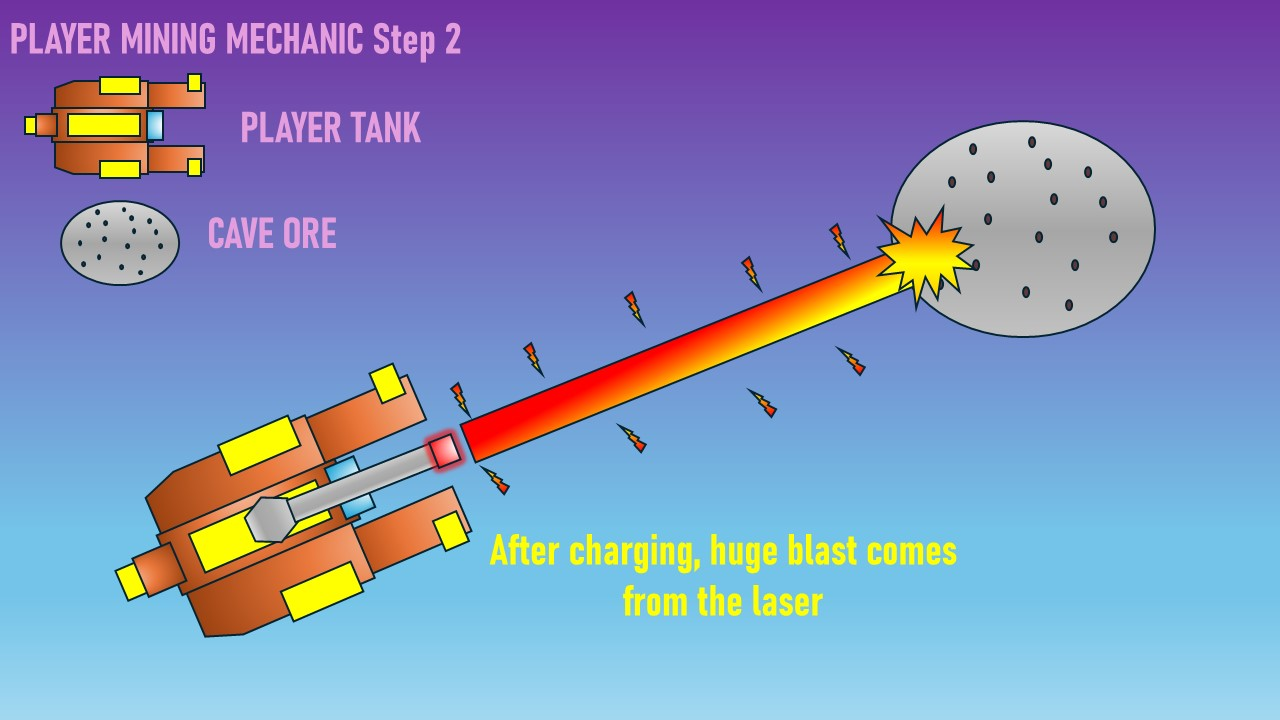
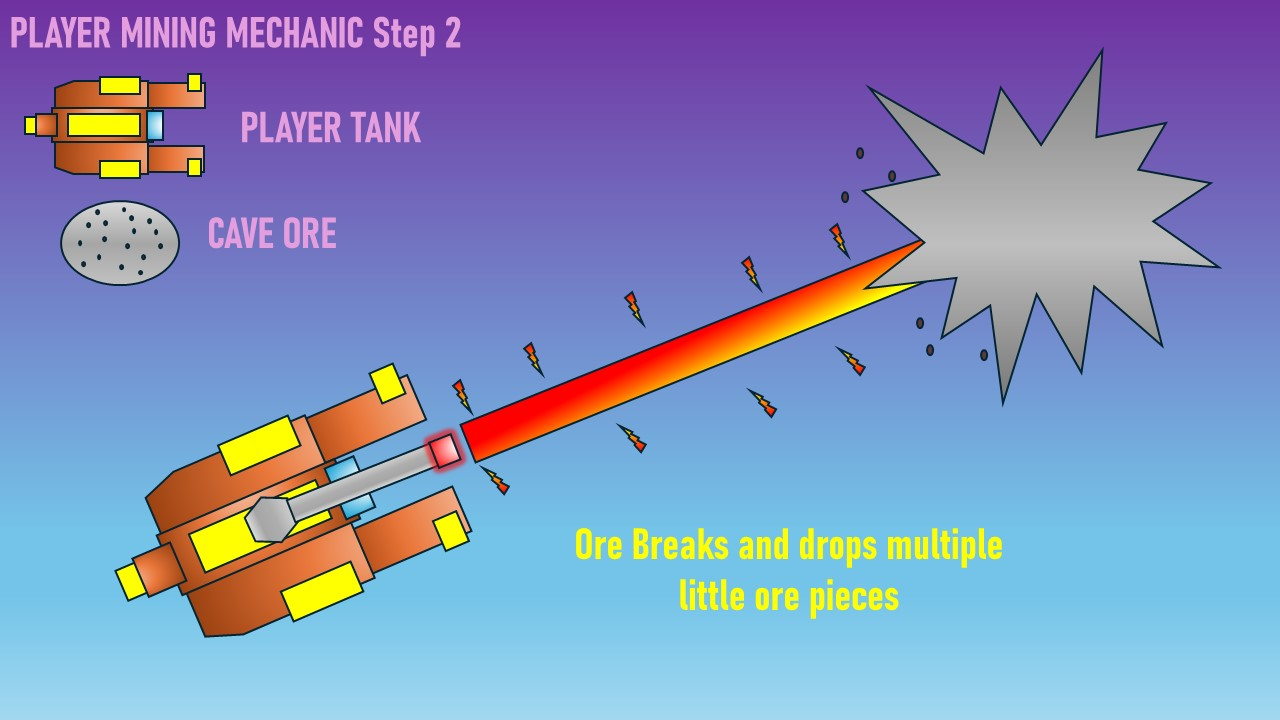
better looking caverns page

diff --git a/CorruptedCrystalCaverns.html b/CorruptedCrystalCaverns.html
@@ -55,7 +55,13 @@
 							<p>The main game loop consists of mining ores around the level using a mining laser, these ores can then be used inside of the shop system to upgrade the player character’s tank.</p>
 							<p>These upgrades included: More powerful laser, Bombs and Flares.</p>
 							<p>Ore can also be used to heal the tank if it has taken any damage.</p>
-							<h1>Design Work</h1>
+							<h2>Key Design Decisions:</h2>
+							<ul>
+								<li>To create a good sense of progression, ores are easily obtained from both mining and killing enemies.</li>
+								<li>The cost of the laser upgrades goes up by 10 each time the laser is upgraded, as this scales well with the amount of enemies in the later parts of the level and gives room for the player to afford flares and bombs along the way.</li>
+								<li>Flares are cheap to buy, but quick to run out to force the player to use them at the correct time or risk low visibility.</li>
+							</ul>
+							<h1>Design Diagrams</h1>
 							<h3>Enemy Miner</h3>
 							<div class="box alt">
 										<div class="row gtr-uniform">                                                                                                     
@@ -68,20 +74,18 @@
 										</div>
 										<h3>Enemy Bomber</h3>
 										<div class="row gtr-uniform">
-											<div class="col-4"><span class="image fit"><img src="images/cavernsdesigns/Slide7.JPG" alt="" /></span></div>
-											<div class="col-4"><span class="image fit"><img src="images/cavernsdesigns/Slide8.JPG" alt="" /></span></div>
-											<div class="col-4"><span class="image fit"><img src="images/cavernsdesigns/Slide9.JPG" alt="" /></span></div>
+											<div class="col-4"><span class="image fit"><img src="images/cavernsdesigns/Slide7.JPG" alt="" /><p>Bombers are the infected defensive systems set up by the mining company, when they spot uninfected mining bots, they enter a panicked defensive state and drop bombs randomly. </p></span></div>
+											<div class="col-4"><span class="image fit"><img src="images/cavernsdesigns/Slide8.JPG" alt="" /><p>When not detecting any uninfected bots, they remain dormant in power saving mode. </p></span></div>
+											<div class="col-4"><span class="image fit"><img src="images/cavernsdesigns/Slide9.JPG" alt="" /><p>Upon detecting an uninfected bot, it moves around randomly and drops bombs in an attempt to stop the player. If the bombs are collided with or shot, they explode dealing significant damage to and surrounding entities.</p></span></div>
 											<div class="col-4"><span class="image fit"><img src="images/cavernsdesigns/Slide10.JPG" alt=""/></span></div>
 											<div class="col-4"><span class="image fit"><img src="images/cavernsdesigns/Slide11.JPG" alt=""/></span></div>
 											<div class="col-4"><span class="image fit"><img src="images/cavernsdesigns/Slide12.JPG" alt=""/></span></div>
 										</div>
 										<h3>Player Mining</h3>
 										<div class="row gtr-uniform">
-											<div class="col-4"><span class="image fit"><img src="images/cavernsdesigns/playermining/Slide1.JPG" alt="" /></span></div>
-											<div class="col-4"><span class="image fit"><img src="images/cavernsdesigns/playermining/Slide2.JPG" alt="" /></span></div>
-											<div class="col-4"><span class="image fit"><img src="images/cavernsdesigns/playermining/Slide3.JPG" alt="" /></span></div>
-											<div class="col-4"><span class="image fit"><img src="images/cavernsdesigns/playermining/Slide4.JPG" alt=""/></span></div>
-											<div class="col-4"><span class="image fit"><img src="images/cavernsdesigns/playermining/Slide5.JPG" alt=""/></span></div>
+											<div class="col-4"><span class="image fit"><img src="images/cavernsdesigns/playermining/Slide1.JPG" alt="" /><p>When the player holds the left mouse button, a laser instantly begins firing out of the tank, this was originally tested with a wind up for a few seconds, but it made the tank controls feel sluggish and clunky especially during combat sections so it was changed to have no wind up.</p></span></div>
+											<div class="col-4"><span class="image fit"><img src="images/cavernsdesigns/playermining/Slide2.JPG" alt="" /><p>When destroyed, the ore into multiple chunks which creates a satisfying effect of it breaking into chunks.</p></span></div>
+											<div class="col-4"><span class="image fit"><img src="images/cavernsdesigns/playermining/Slide3.JPG" alt="" /><p>The small ore pieces fly towards the player automatically, this prevents the player having to waste time picking everything up off of the floor. It also creates a much more satisfying mining experience.</p></span></div>
 										</div>
 							</div>		
 						</div>
